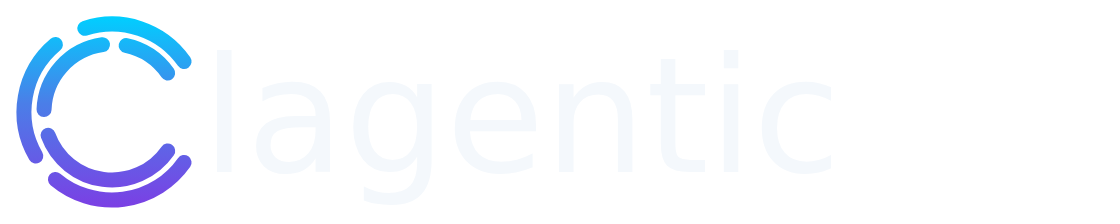
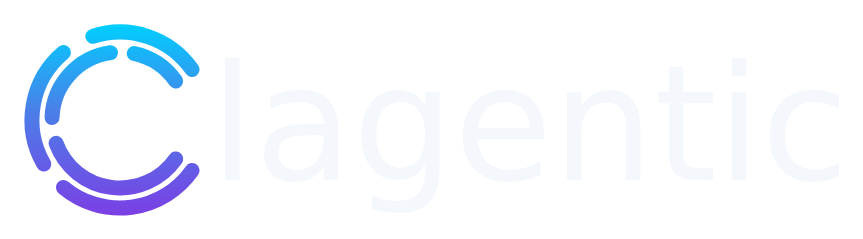
fix(profile): drop redundant h5 and center wordmark viewBox (lr-6e8fea)
- Remove '<h5 align="center">clagentic</h5>' — redundant with the wordmark
  above it, which already spells 'clagentic' in ink.
- Tighten viewBox on clagentic-wordmark-{light,dark}.svg from '0 0 560 112'
  to '-4 -4 431.5 119.5', measured from the actual rendered ink pixels
  (Playwright screenshot + alpha-channel scan, not estimated font metrics).
  Old viewBox had ~12px left margin vs ~140px right margin; new viewBox
  gives 24px left / 23px right and 24px top / 23px bottom (all within 2px).
- Re-export both PNGs at the same 2x scale from the new viewBox.
- Update README img width 360 -> 278 so the visible wordmark renders at
  roughly the same physical size as before the crop.

Changed region(s): [[0.0, 0.0625, 0.241, 0.9375]]

diff --git a/profile/README.md b/profile/README.md
@@ -2,11 +2,9 @@
   <picture>
     <source media="(prefers-color-scheme: dark)" srcset="https://raw.githubusercontent.com/clagentic/.github/main/profile/clagentic-wordmark-dark.png" />
     <source media="(prefers-color-scheme: light)" srcset="https://raw.githubusercontent.com/clagentic/.github/main/profile/clagentic-wordmark-light.png" />
-    <img src="https://raw.githubusercontent.com/clagentic/.github/main/profile/clagentic-wordmark-light.png" alt="clagentic" width="360" />
+    <img src="https://raw.githubusercontent.com/clagentic/.github/main/profile/clagentic-wordmark-light.png" alt="clagentic" width="278" />
   </picture>
 </p>
-
-<h5 align="center">clagentic</h5>
 
 <h4 align="center">AI tooling. Built for builders.</h4>
 
